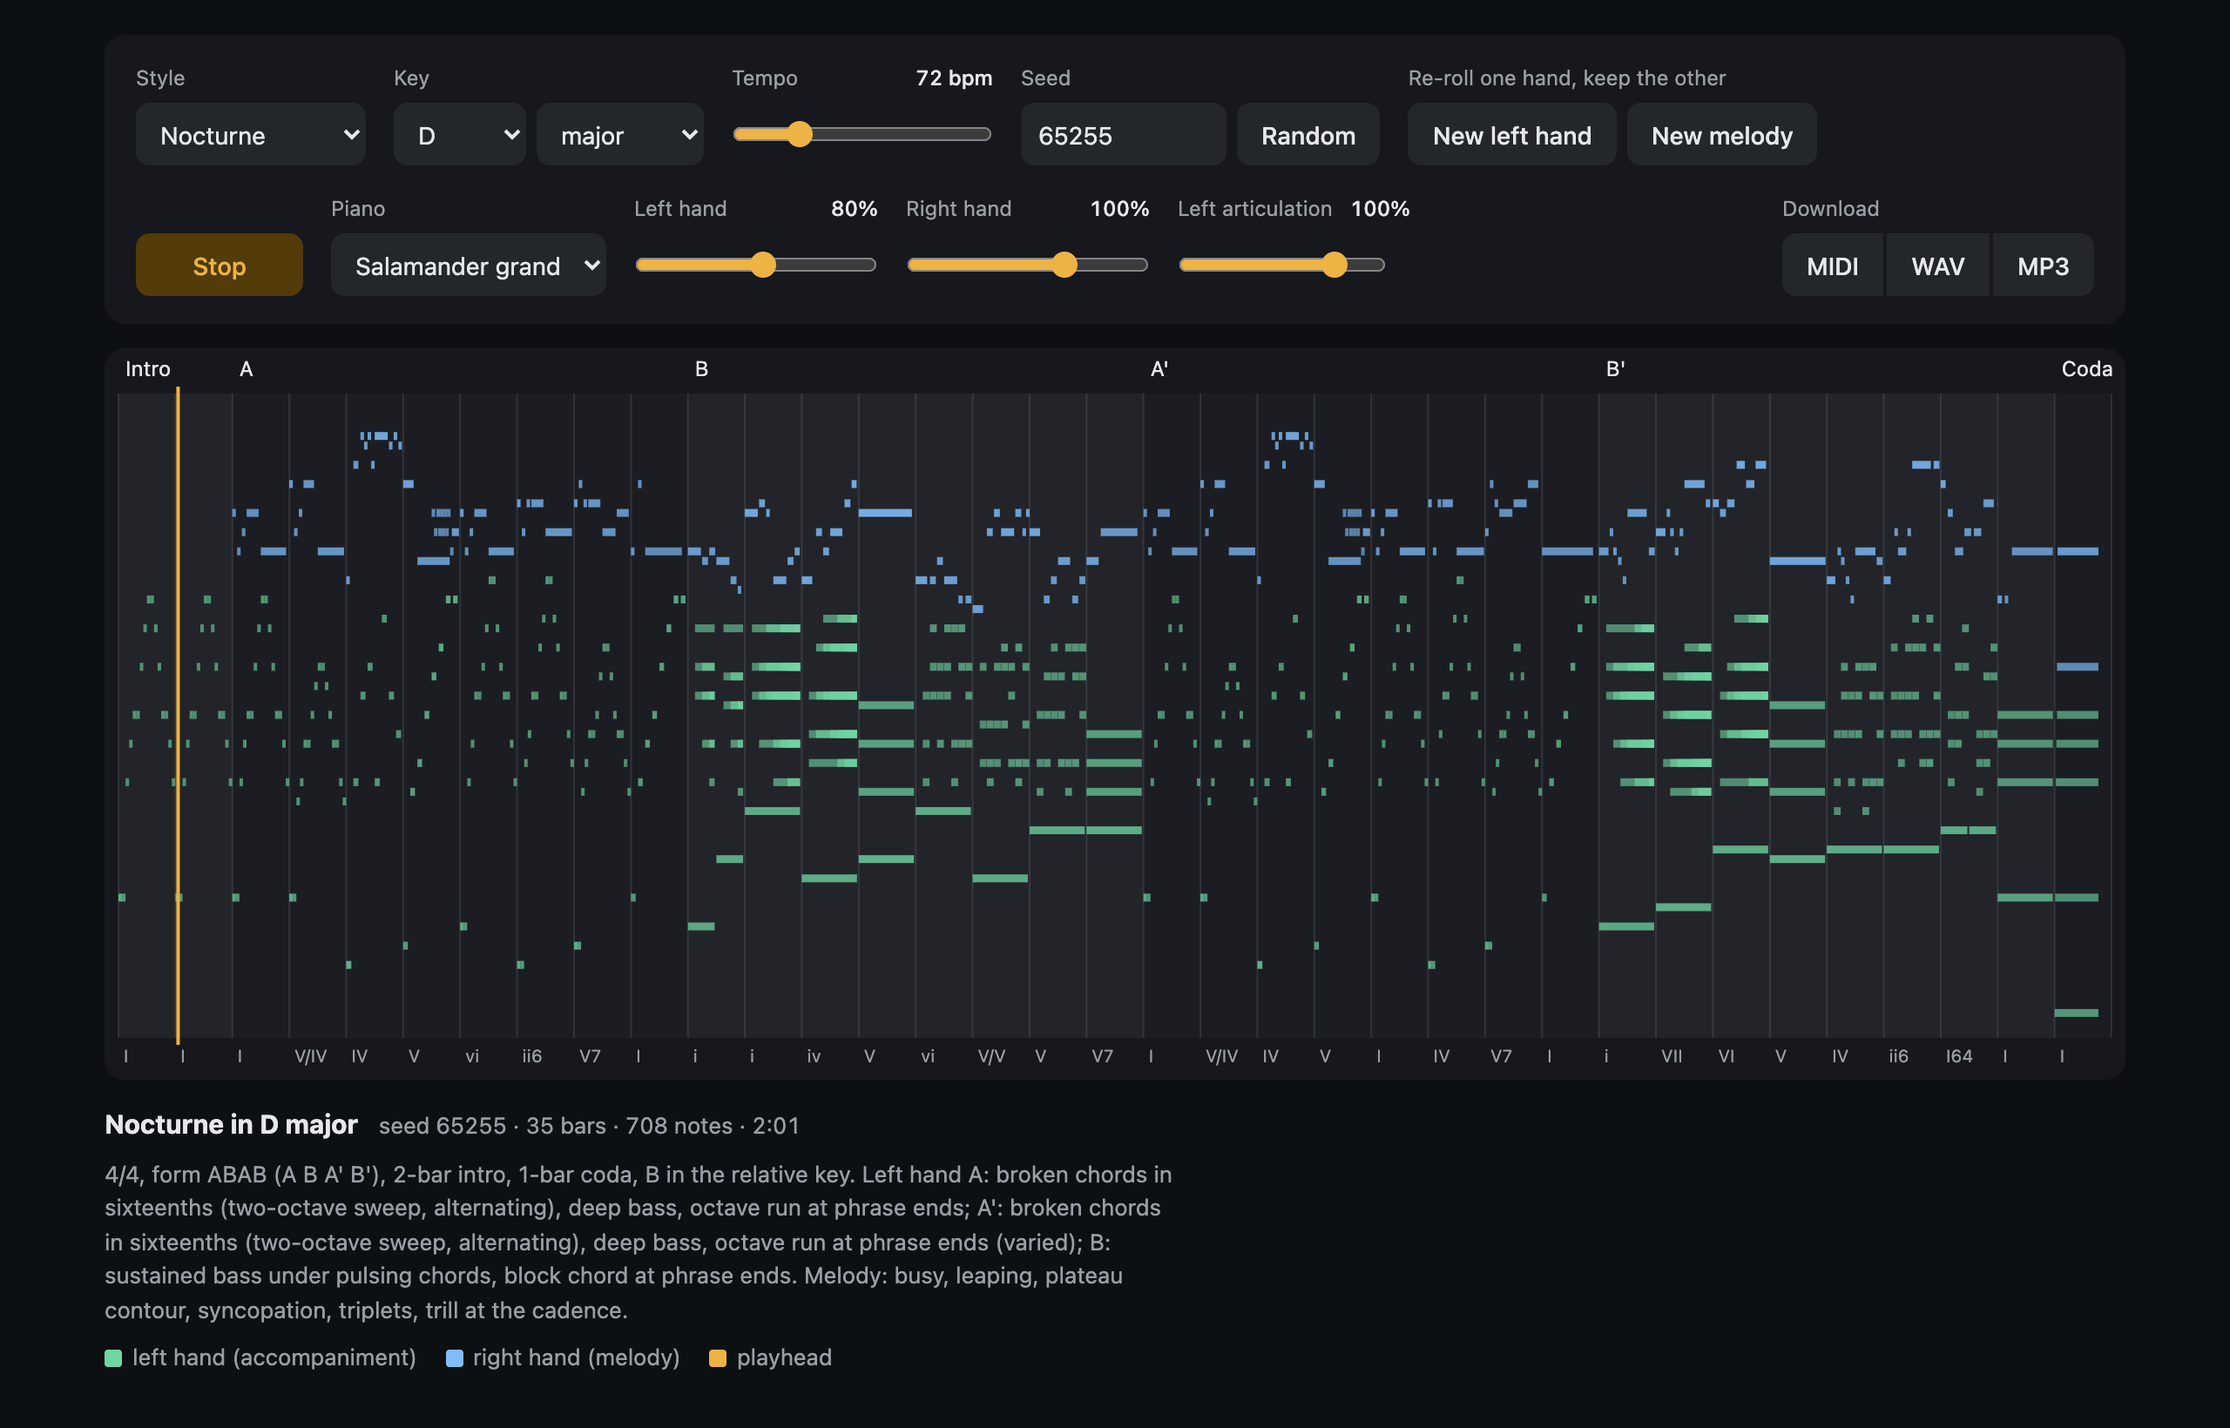
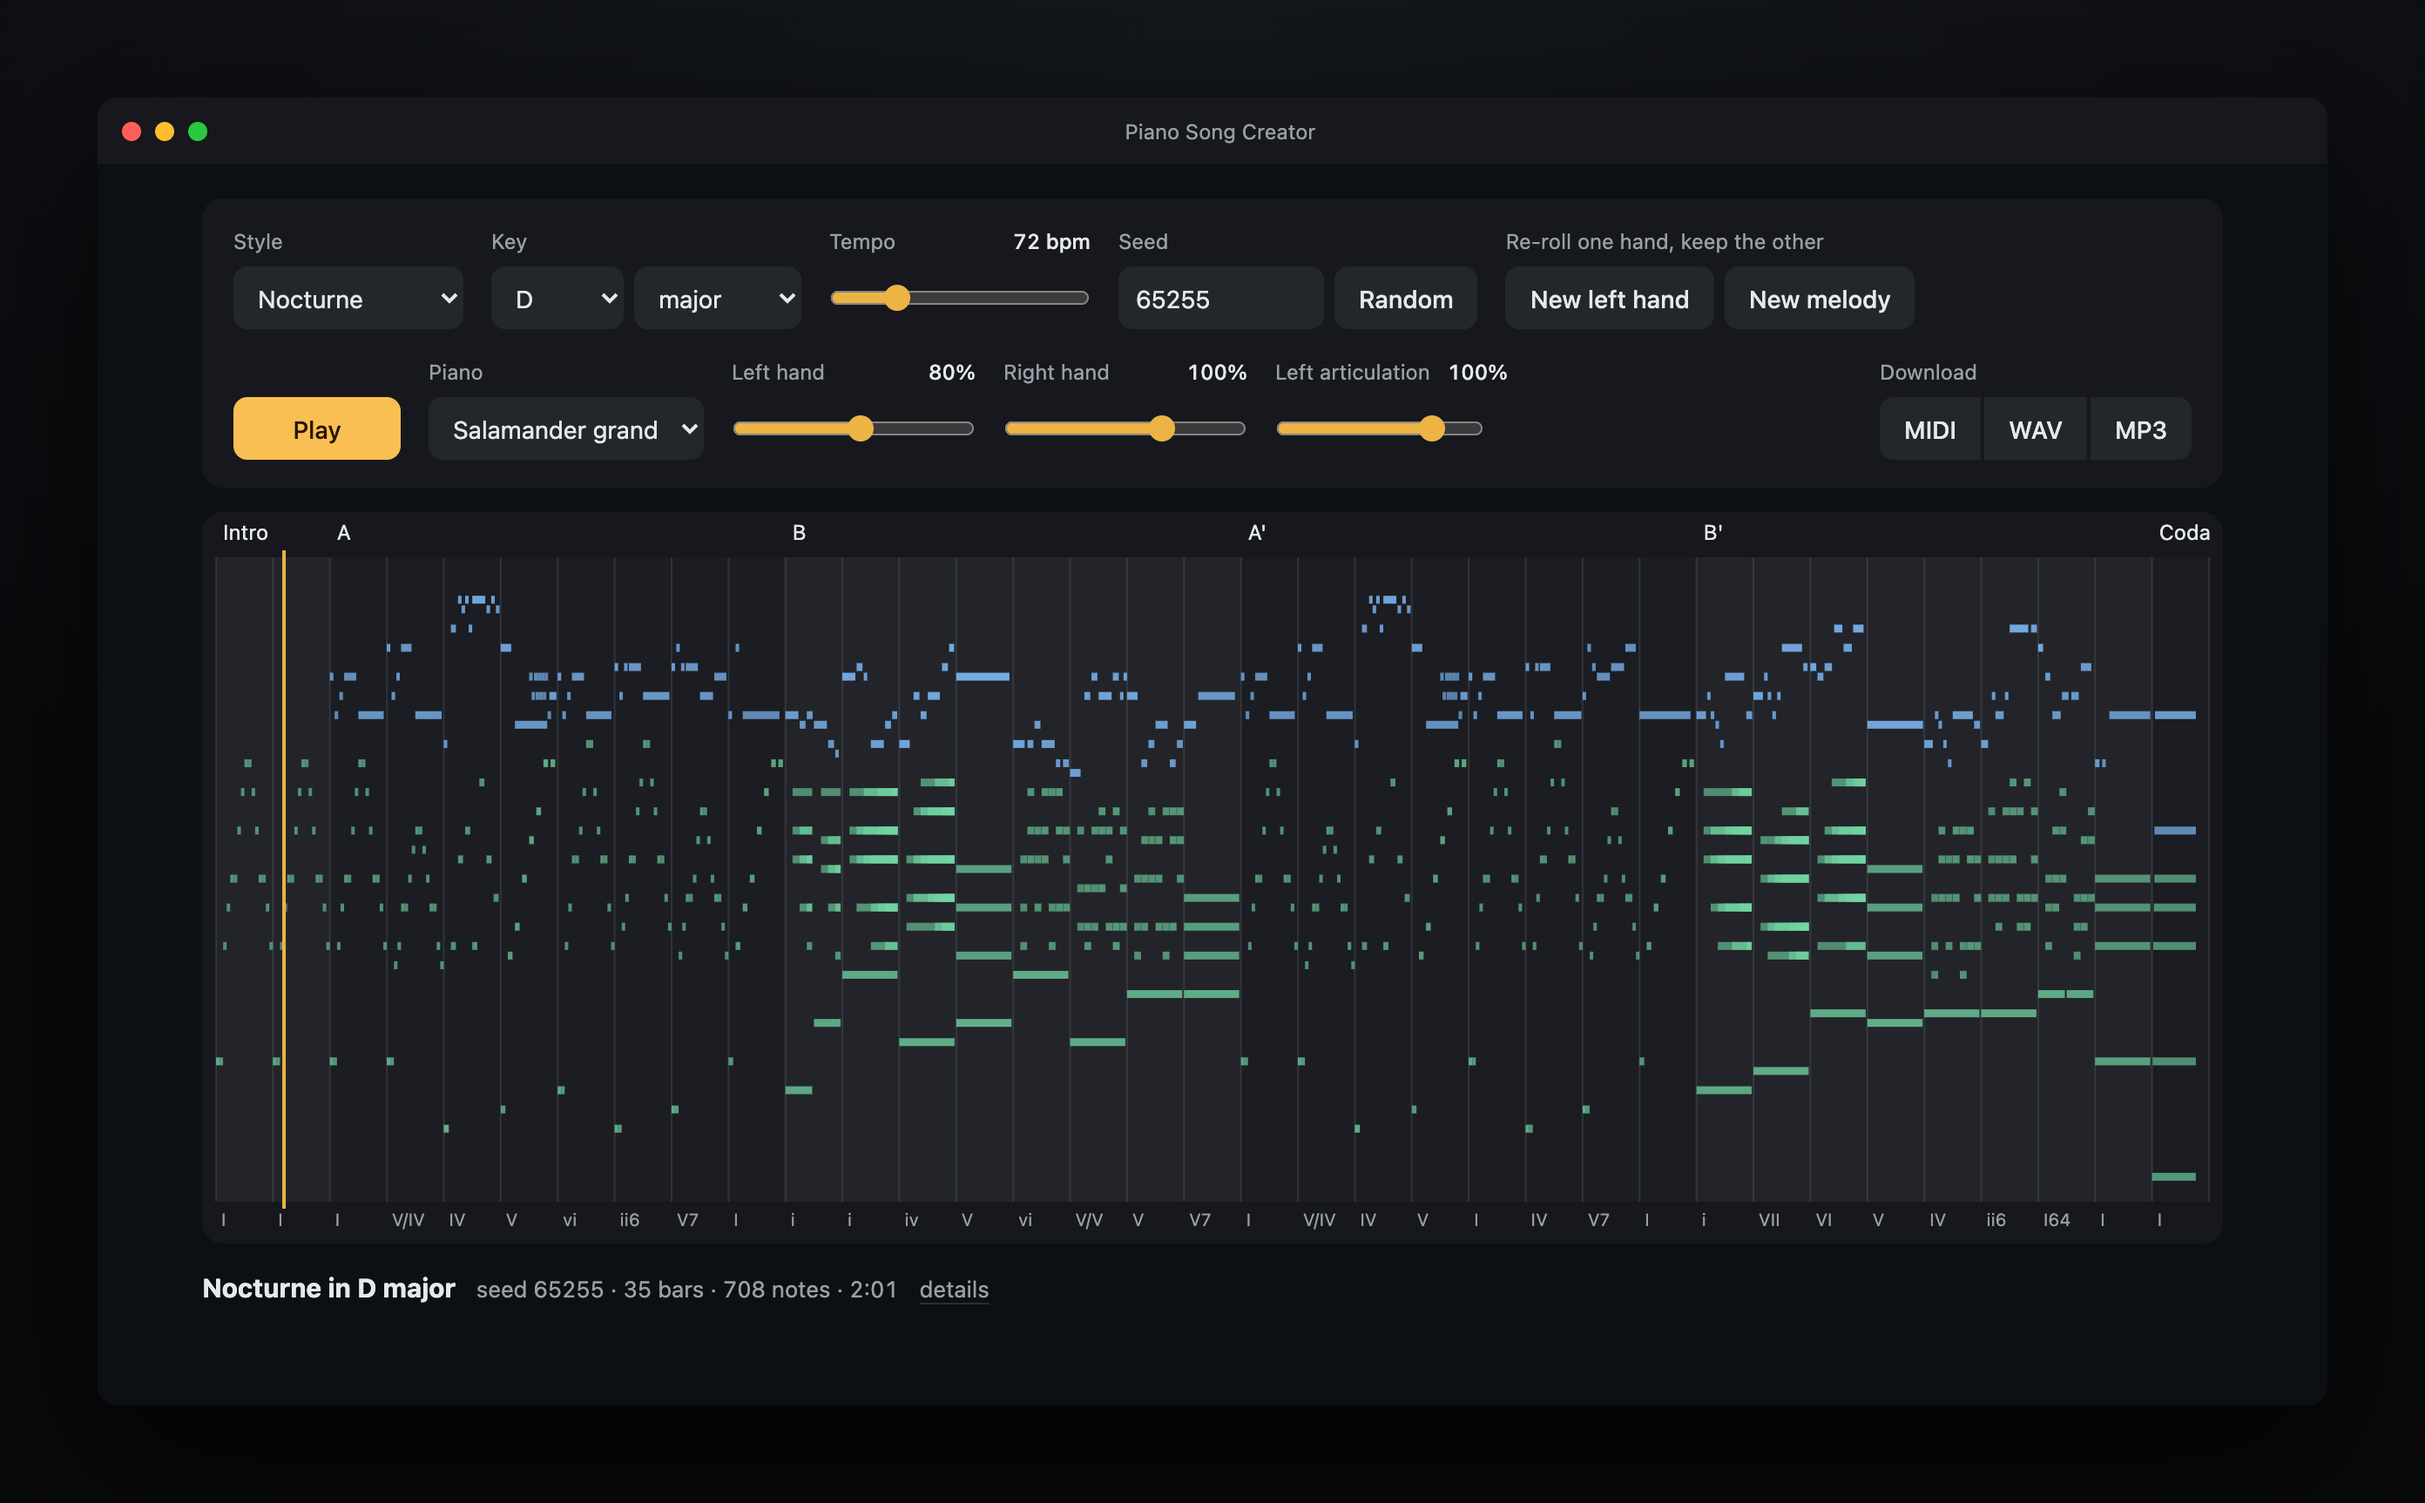
README: show the tool in a window frame instead of the styles chart

diff --git a/README.md b/README.md
@@ -9,7 +9,7 @@ preferences and a bias on the melodic character. Export as MIDI, WAV or MP3.
 
 The same seed always writes the same piece.
 
-![Sixteen styles](docs/styles.png)
+![Piano Song Creator](docs/screenshot.png)
 
 ## What it does badly
 
@@ -126,7 +126,7 @@ their textures are drawn independently. On top of that:
 - `midi.js` - Standard MIDI File writer (handles 6/8)
 - `app.js`, `index.html` - interface, playback, piano roll
 - `composer.test.mjs` - musical invariants over many seeds and a diversity check
-- `docs/` - cover and infographics
+- `docs/` - screenshot, cover and infographics for the itch.io page
 - `tools/build-itch.sh` - packs the four runtime files into the zip itch.io expects
 
 ## Licence
